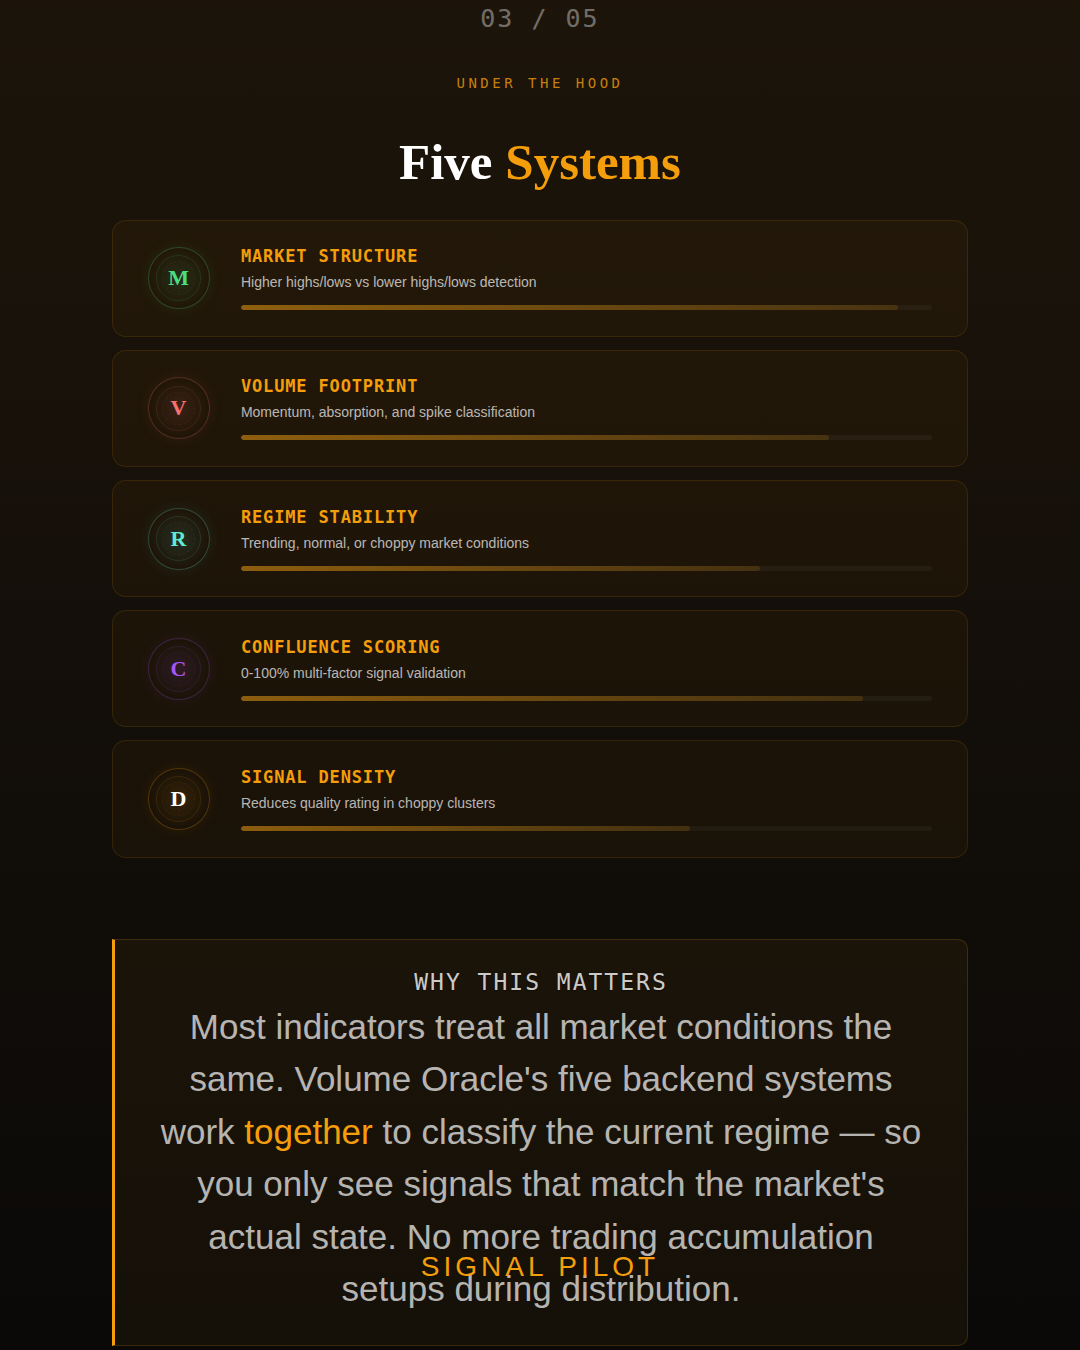
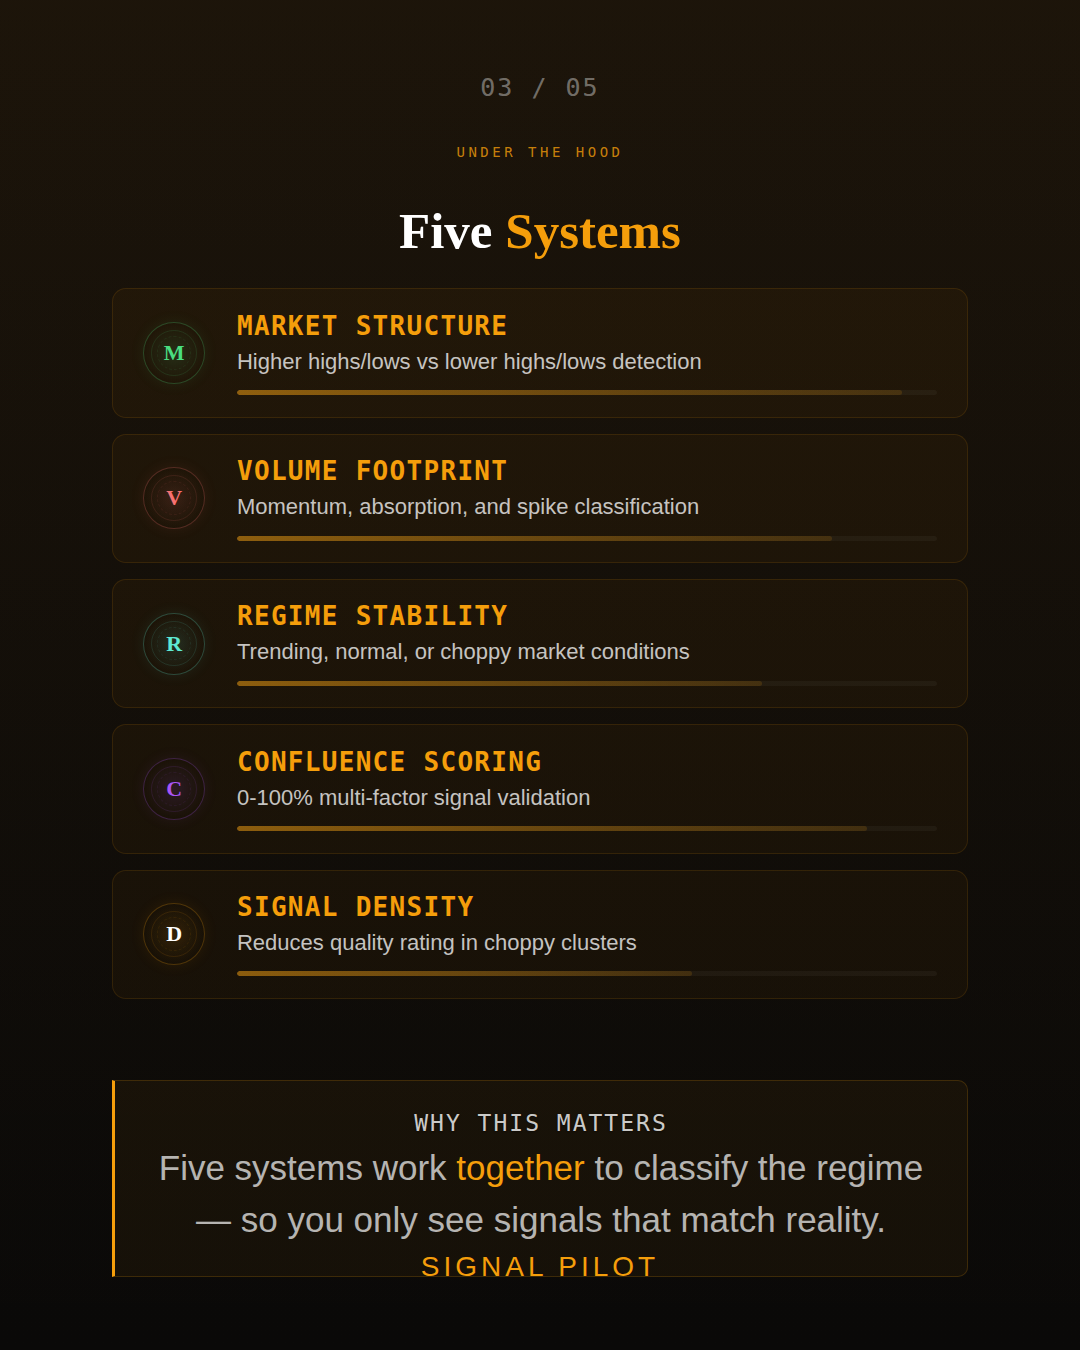
fix: post 075 slide 3 readability + post 069 tweet typo
- Increase system-name/system-detail font sizes in render-carousels.js
  so grey description text is readable on Instagram
- Trim insight box text and add bottom padding to fix overlap with
  SIGNAL PILOT logo on slide 3
- Clean up corrupted CSS in post-075 carousel.html (duplicate ig-*
  blocks interleaved into .slide-logo selector)
- Fix "vOLUME" → "VOLUME" typo in post 069 tweet 2

https://claude.ai/code/session_01RKLH6giKDAmv7x8a2m3cpL

diff --git a/INSTAGRAM_CONTENT_HUB/social/post-075/carousel.html b/INSTAGRAM_CONTENT_HUB/social/post-075/carousel.html
@@ -43,224 +43,20 @@
     .slide-wrapper { display: flex; flex-direction: column; align-items: center; container-type: inline-size; }
     .slide-label { font-size: 0.75rem; color: var(--text-muted); margin-bottom: 0.75rem; text-transform: uppercase; letter-spacing: 0.1em; }
     .slide { width: 100%; max-width: 540px; aspect-ratio: 4 / 5; background: var(--bg-dark); border-radius: 0.5rem; position: relative; overflow: hidden; display: flex; flex-direction: column; }
-.slide-content { position: relative; z-index: 1; flex: 1; display: flex; flex-direction: column; padding: 5.5% 5.5% 10% 5.5%; }
+.slide-content { position: relative; z-index: 1; flex: 1; display: flex; flex-direction: column; padding: 5.5% 5.5% 12% 5.5%; }
 
     .slide-logo {
-
-    /* INSTAGRAM READABILITY */
-    .ig-body-text {
-      color: rgba(255,255,255,0.85) !important;
-      font-size: clamp(11px, 1.8cqw, 16px) !important;
-      text-shadow: 0 1px 3px rgba(0,0,0,0.5);
-    }
-    .ig-label-text {
-      color: rgba(255,255,255,0.8) !important;
-      font-size: clamp(9px, 1.3cqw, 13px) !important;
-      text-shadow: 0 1px 2px rgba(0,0,0,0.4);
-      letter-spacing: 0.1em;
-    }
-    .ig-title-text {
-      color: var(--text-primary) !important;
-      text-shadow: 0 2px 4px rgba(0,0,0,0.3);
-    }
       position: absolute;
-
-    /* INSTAGRAM READABILITY */
-    .ig-body-text {
-      color: rgba(255,255,255,0.85) !important;
-      font-size: clamp(11px, 1.8cqw, 16px) !important;
-      text-shadow: 0 1px 3px rgba(0,0,0,0.5);
-    }
-    .ig-label-text {
-      color: rgba(255,255,255,0.8) !important;
-      font-size: clamp(9px, 1.3cqw, 13px) !important;
-      text-shadow: 0 1px 2px rgba(0,0,0,0.4);
-      letter-spacing: 0.1em;
-    }
-    .ig-title-text {
-      color: var(--text-primary) !important;
-      text-shadow: 0 2px 4px rgba(0,0,0,0.3);
-    }
       bottom: 4%;
-
-    /* INSTAGRAM READABILITY */
-    .ig-body-text {
-      color: rgba(255,255,255,0.85) !important;
-      font-size: clamp(11px, 1.8cqw, 16px) !important;
-      text-shadow: 0 1px 3px rgba(0,0,0,0.5);
-    }
-    .ig-label-text {
-      color: rgba(255,255,255,0.8) !important;
-      font-size: clamp(9px, 1.3cqw, 13px) !important;
-      text-shadow: 0 1px 2px rgba(0,0,0,0.4);
-      letter-spacing: 0.1em;
-    }
-    .ig-title-text {
-      color: var(--text-primary) !important;
-      text-shadow: 0 2px 4px rgba(0,0,0,0.3);
-    }
       left: 50%;
-
-    /* INSTAGRAM READABILITY */
-    .ig-body-text {
-      color: rgba(255,255,255,0.85) !important;
-      font-size: clamp(11px, 1.8cqw, 16px) !important;
-      text-shadow: 0 1px 3px rgba(0,0,0,0.5);
-    }
-    .ig-label-text {
-      color: rgba(255,255,255,0.8) !important;
-      font-size: clamp(9px, 1.3cqw, 13px) !important;
-      text-shadow: 0 1px 2px rgba(0,0,0,0.4);
-      letter-spacing: 0.1em;
-    }
-    .ig-title-text {
-      color: var(--text-primary) !important;
-      text-shadow: 0 2px 4px rgba(0,0,0,0.3);
-    }
       transform: translateX(-50%);
-
-    /* INSTAGRAM READABILITY */
-    .ig-body-text {
-      color: rgba(255,255,255,0.85) !important;
-      font-size: clamp(11px, 1.8cqw, 16px) !important;
-      text-shadow: 0 1px 3px rgba(0,0,0,0.5);
-    }
-    .ig-label-text {
-      color: rgba(255,255,255,0.8) !important;
-      font-size: clamp(9px, 1.3cqw, 13px) !important;
-      text-shadow: 0 1px 2px rgba(0,0,0,0.4);
-      letter-spacing: 0.1em;
-    }
-    .ig-title-text {
-      color: var(--text-primary) !important;
-      text-shadow: 0 2px 4px rgba(0,0,0,0.3);
-    }
       font-family: 'Gugi', sans-serif;
-
-    /* INSTAGRAM READABILITY */
-    .ig-body-text {
-      color: rgba(255,255,255,0.85) !important;
-      font-size: clamp(11px, 1.8cqw, 16px) !important;
-      text-shadow: 0 1px 3px rgba(0,0,0,0.5);
-    }
-    .ig-label-text {
-      color: rgba(255,255,255,0.8) !important;
-      font-size: clamp(9px, 1.3cqw, 13px) !important;
-      text-shadow: 0 1px 2px rgba(0,0,0,0.4);
-      letter-spacing: 0.1em;
-    }
-    .ig-title-text {
-      color: var(--text-primary) !important;
-      text-shadow: 0 2px 4px rgba(0,0,0,0.3);
-    }
       font-size: clamp(0.4rem, 1.2cqw, 0.625rem);
-
-    /* INSTAGRAM READABILITY */
-    .ig-body-text {
-      color: rgba(255,255,255,0.85) !important;
-      font-size: clamp(11px, 1.8cqw, 16px) !important;
-      text-shadow: 0 1px 3px rgba(0,0,0,0.5);
-    }
-    .ig-label-text {
-      color: rgba(255,255,255,0.8) !important;
-      font-size: clamp(9px, 1.3cqw, 13px) !important;
-      text-shadow: 0 1px 2px rgba(0,0,0,0.4);
-      letter-spacing: 0.1em;
-    }
-    .ig-title-text {
-      color: var(--text-primary) !important;
-      text-shadow: 0 2px 4px rgba(0,0,0,0.3);
-    }
       letter-spacing: 0.3em;
-
-    /* INSTAGRAM READABILITY */
-    .ig-body-text {
-      color: rgba(255,255,255,0.85) !important;
-      font-size: clamp(11px, 1.8cqw, 16px) !important;
-      text-shadow: 0 1px 3px rgba(0,0,0,0.5);
-    }
-    .ig-label-text {
-      color: rgba(255,255,255,0.8) !important;
-      font-size: clamp(9px, 1.3cqw, 13px) !important;
-      text-shadow: 0 1px 2px rgba(0,0,0,0.4);
-      letter-spacing: 0.1em;
-    }
-    .ig-title-text {
-      color: var(--text-primary) !important;
-      text-shadow: 0 2px 4px rgba(0,0,0,0.3);
-    }
       text-transform: uppercase;
-
-    /* INSTAGRAM READABILITY */
-    .ig-body-text {
-      color: rgba(255,255,255,0.85) !important;
-      font-size: clamp(11px, 1.8cqw, 16px) !important;
-      text-shadow: 0 1px 3px rgba(0,0,0,0.5);
-    }
-    .ig-label-text {
-      color: rgba(255,255,255,0.8) !important;
-      font-size: clamp(9px, 1.3cqw, 13px) !important;
-      text-shadow: 0 1px 2px rgba(0,0,0,0.4);
-      letter-spacing: 0.1em;
-    }
-    .ig-title-text {
-      color: var(--text-primary) !important;
-      text-shadow: 0 2px 4px rgba(0,0,0,0.3);
-    }
       color: rgba(245,158,11,0.4);
-
-    /* INSTAGRAM READABILITY */
-    .ig-body-text {
-      color: rgba(255,255,255,0.85) !important;
-      font-size: clamp(11px, 1.8cqw, 16px) !important;
-      text-shadow: 0 1px 3px rgba(0,0,0,0.5);
-    }
-    .ig-label-text {
-      color: rgba(255,255,255,0.8) !important;
-      font-size: clamp(9px, 1.3cqw, 13px) !important;
-      text-shadow: 0 1px 2px rgba(0,0,0,0.4);
-      letter-spacing: 0.1em;
-    }
-    .ig-title-text {
-      color: var(--text-primary) !important;
-      text-shadow: 0 2px 4px rgba(0,0,0,0.3);
-    }
       z-index: 2;
-
-    /* INSTAGRAM READABILITY */
-    .ig-body-text {
-      color: rgba(255,255,255,0.85) !important;
-      font-size: clamp(11px, 1.8cqw, 16px) !important;
-      text-shadow: 0 1px 3px rgba(0,0,0,0.5);
-    }
-    .ig-label-text {
-      color: rgba(255,255,255,0.8) !important;
-      font-size: clamp(9px, 1.3cqw, 13px) !important;
-      text-shadow: 0 1px 2px rgba(0,0,0,0.4);
-      letter-spacing: 0.1em;
-    }
-    .ig-title-text {
-      color: var(--text-primary) !important;
-      text-shadow: 0 2px 4px rgba(0,0,0,0.3);
-    }
       white-space: nowrap;
-
-    /* INSTAGRAM READABILITY */
-    .ig-body-text {
-      color: rgba(255,255,255,0.85) !important;
-      font-size: clamp(11px, 1.8cqw, 16px) !important;
-      text-shadow: 0 1px 3px rgba(0,0,0,0.5);
-    }
-    .ig-label-text {
-      color: rgba(255,255,255,0.8) !important;
-      font-size: clamp(9px, 1.3cqw, 13px) !important;
-      text-shadow: 0 1px 2px rgba(0,0,0,0.4);
-      letter-spacing: 0.1em;
-    }
-    .ig-title-text {
-      color: var(--text-primary) !important;
-      text-shadow: 0 2px 4px rgba(0,0,0,0.3);
-    }
     }
 
     /* INSTAGRAM READABILITY */
@@ -1061,7 +857,7 @@
           </div>
           <div class="insight-box">
             <div class="insight-label ig-label-text">WHY THIS MATTERS</div>
-            <div class="insight-text">Most indicators treat all market conditions the same. Volume Oracle's five backend systems work <em>together</em> to classify the current regime — so you only see signals that match the market's actual state. No more trading accumulation setups during distribution.</div>
+            <div class="insight-text">Five systems work <em>together</em> to classify the regime — so you only see signals that match reality.</div>
           </div>
           <div class="slide-logo">Signal Pilot</div>
         </div>

diff --git a/scripts/render-carousels.js b/scripts/render-carousels.js
@@ -279,6 +279,21 @@ async function renderCarousel(page, postDir, postNumber) {
         text-align: center !important;
       }
 
+      /* System items (Five Systems slide etc.) */
+      .system-name {
+        font-size: clamp(18px, 4.2cqw, 26px) !important;
+      }
+      .system-detail {
+        font-size: clamp(16px, 3.4cqw, 22px) !important;
+        color: rgba(255,255,255,0.75) !important;
+      }
+      .system-item {
+        padding: 2.5% 3.5% !important;
+      }
+      .system-list {
+        gap: clamp(8px, 1.5cqw, 16px) !important;
+      }
+
       /* Arrow lists */
       .arrow-list {
         font-size: clamp(28px, 6.9cqw, 41px) !important;
